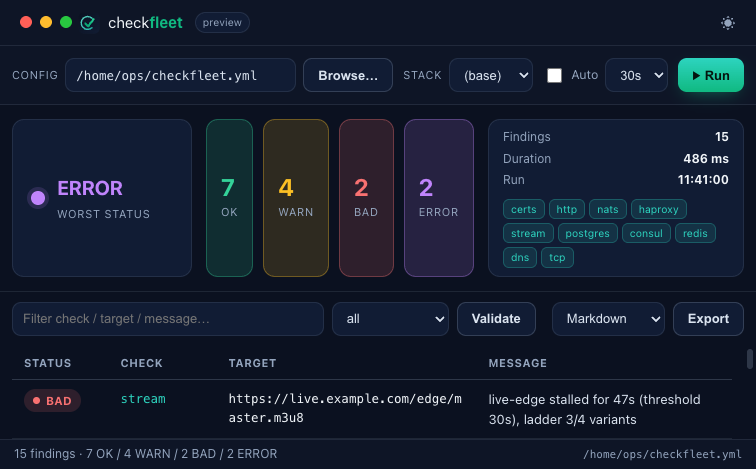
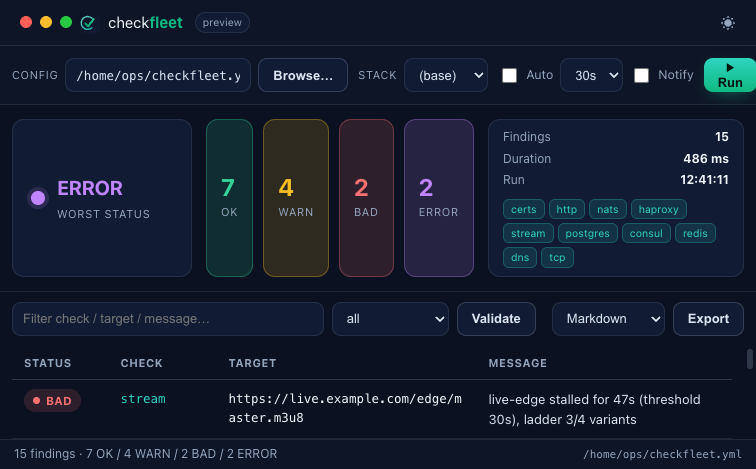
feat(desktop): native notifications + persisted settings (CF-63) (v0.59.0)

Changed region(s): [[0.3042, 0.1194, 0.791, 0.1791], [0.8214, 0.1194, 1.0, 0.209], [0.8823, 0.3582, 0.9735, 0.3881]]

diff --git a/desktop/frontend/dist/main.js b/desktop/frontend/dist/main.js
@@ -24,6 +24,7 @@
     RunChecks: async () => mockReport(),
     Validate: async () => [],
     Explain: async (m) => "Sample explanation for the " + m + " module (preview).",
+    Notify: async () => {},
   };
 
   /* ---------------- state ---------------- */
@@ -118,6 +119,32 @@
     }
     btn.disabled = false;
     render();
+    maybeNotify();
+  }
+
+  // maybeNotify fires a native notification when the run is bad and Notify is on.
+  function maybeNotify() {
+    if (IS_MOCK || !$("notify").checked || !report || report.err) return;
+    if (report.worst === "BAD" || report.worst === "ERROR") {
+      const n = report.bad + report.error;
+      try { Backend.Notify("checkfleet: " + report.worst, n + " problem(s) — " + (report.configPath || "")); } catch (_) {}
+    }
+  }
+
+  /* ---------------- settings persistence ---------------- */
+  function saveSettings() {
+    try {
+      localStorage.setItem("cf-settings", JSON.stringify({
+        config: $("configPath").value,
+        stack: $("stack").value,
+        interval: $("interval").value,
+        auto: $("auto").checked,
+        notify: $("notify").checked,
+      }));
+    } catch (_) {}
+  }
+  function loadSettings() {
+    try { return JSON.parse(localStorage.getItem("cf-settings") || "{}"); } catch (_) { return {}; }
   }
 
   async function refreshStacks() {
@@ -202,11 +229,13 @@
         if (p) { $("configPath").value = p; updateHint(); await refreshStacks(); }
       } catch (_) {}
     });
-    $("configPath").addEventListener("change", () => { updateHint(); refreshStacks(); });
+    $("configPath").addEventListener("change", () => { updateHint(); refreshStacks(); saveSettings(); });
     $("filter").addEventListener("input", render);
     $("minsev").addEventListener("change", render);
-    $("auto").addEventListener("change", (e) => setAutoRefresh(e.target.checked));
-    $("interval").addEventListener("change", () => { if ($("auto").checked) setAutoRefresh(true); });
+    $("stack").addEventListener("change", saveSettings);
+    $("notify").addEventListener("change", saveSettings);
+    $("auto").addEventListener("change", (e) => { setAutoRefresh(e.target.checked); saveSettings(); });
+    $("interval").addEventListener("change", () => { if ($("auto").checked) setAutoRefresh(true); saveSettings(); });
     $("export").addEventListener("click", () => save($("expfmt").value));
     $("theme").addEventListener("click", toggleTheme);
     $("validate").addEventListener("click", runValidate);
@@ -251,9 +280,18 @@
     // straight into a fleet.
     let startup = { path: "", autoRun: false };
     try { startup = (await Backend.StartupConfig()) || startup; } catch (_) {}
-    if (startup.path) $("configPath").value = startup.path;
+
+    // Persisted settings (config/stack/interval/auto/notify) win over the
+    // startup defaults, so the app reopens where you left it.
+    const s = loadSettings();
+    $("configPath").value = s.config || startup.path || "";
+    if (s.interval) $("interval").value = s.interval;
+    if (s.auto) $("auto").checked = true;
+    if (s.notify) $("notify").checked = true;
     updateHint();
     await refreshStacks();
+    if (s.stack) $("stack").value = s.stack;
+    if ($("auto").checked) setAutoRefresh(true);
 
     if (IS_MOCK) {
       // Preview: add fake window controls and auto-run with sample data.

diff --git a/desktop/frontend/dist/index.html b/desktop/frontend/dist/index.html
@@ -42,6 +42,7 @@
           <option value="60">60s</option>
           <option value="300">5m</option>
         </select>
+        <label class="switch"><input type="checkbox" id="notify"><span>Notify</span></label>
       </div>
       <button class="btn btn-primary" id="run"><span class="run-ico">▶</span> Run</button>
     </div>

diff --git a/desktop/app.go b/desktop/app.go
@@ -14,6 +14,7 @@ import (
 	"github.com/Allan-Nava/checkfleet/internal/moduledoc"
 	"github.com/Allan-Nava/checkfleet/internal/output"
 	"github.com/Allan-Nava/checkfleet/internal/registry"
+	"github.com/gen2brain/beeep"
 	wruntime "github.com/wailsapp/wails/v2/pkg/runtime"
 )
 
@@ -180,6 +181,12 @@ func (a *App) Validate(configPath, stack string) []string {
 func (a *App) Explain(module string) string {
 	d, _ := moduledoc.Doc(module)
 	return d
+}
+
+// Notify fires a native OS desktop notification (best-effort). The frontend
+// calls it after a run whose worst status is BAD/ERROR when notifications are on.
+func (a *App) Notify(title, message string) {
+	_ = beeep.Notify(title, message, "")
 }
 
 // OpenConfigDialog shows a native file picker and returns the chosen path.

diff --git a/BACKLOG.md b/BACKLOG.md
@@ -124,5 +124,5 @@ Estende l'app desktop Wails (M5) riusando `internal/*`. Frontend statico + bindi
 
 - [x] **CF-61 — Export in tutti i formati**: nella GUI selettore formato (Markdown/JSON/HTML/JUnit/Prometheus/OTLP) + bottone Export via file-dialog nativo; helper `renderReport` testato (riusa `internal/output`). _(v0.57.0)_
 - [x] **CF-62 — Dettaglio & insight**: drawer al click su un finding (messaggio completo + Copy), chip modulo cliccabili → **Explain**, bottone **Validate** (`engine.Validate`). Docs moduli spostate in `internal/moduledoc` (condivise CLI+GUI). Fix: `.drawer` ignorava `hidden` (era sempre aperto). Binding testate. _(v0.58.0)_
-- [ ] **CF-63 — Notifiche & settings**: notifica desktop nativa quando il worst è BAD/ERROR dopo un run; persistenza di config path, stack, intervallo e auto-refresh tra i riavvii.
+- [x] **CF-63 — Notifiche & settings**: notifica desktop nativa (beeep) quando il worst è BAD/ERROR dopo un run, con toggle **Notify**; persistenza in localStorage di config path, stack, intervallo, auto e notify tra i riavvii. Binding `App.Notify`. _(v0.59.0)_
 - [ ] **CF-64 — Vista storico/diff**: mostra il delta vs il run precedente (new/resolved/worsened/improved) riusando `engine.DiffStatus`.

diff --git a/CHANGELOG.md b/CHANGELOG.md
@@ -1,5 +1,9 @@
 # Changelog
 
+## 0.59.0
+
+- Desktop (CF-63, M16): **notifiche native & settings persistiti**. Nuovo toggle **Notify**: dopo un run con worst BAD/ERROR l'app fa una notifica desktop nativa (via `beeep`, binding `App.Notify`). Config path, stack, intervallo, Auto e Notify sono ora **ricordati tra i riavvii** (localStorage). Nuova dip del modulo desktop: `github.com/gen2brain/beeep` (solo GUI, il modulo CLI resta invariato).
+
 ## 0.58.0
 
 - Desktop (CF-62, M16): **dettaglio & insight**. Click su un finding → drawer con messaggio completo e bottone **Copy**; click su una chip modulo → **Explain** (cosa controlla); bottone **Validate** che mostra i problemi di config (`engine.Validate`) senza eseguire i check. Le descrizioni dei moduli sono ora in `internal/moduledoc`, condivise tra CLI (`explain`) e GUI (con test anti-drift). Fix: `.drawer` con `display:flex` ignorava l'attributo `hidden` (drawer sempre aperto) → aggiunto `.drawer[hidden]{display:none}`. Binding `Explain`/`Validate` testate.

diff --git a/docs/desktop.md b/docs/desktop.md
@@ -22,7 +22,12 @@ Everything is one screen, scanned top-to-bottom.
 - **Stack** — pick a `checkfleet.<stack>.yml` profile discovered next to the
   config (same overlay as the CLI's `--stack`); `(base)` runs the base file.
 - **Auto** + interval — re-run the checks on a timer (10s / 30s / 60s / 5m).
+- **Notify** — pop a native OS notification after a run whose worst status is
+  BAD/ERROR.
 - **Run** — execute every configured module now.
+
+The app remembers your config path, stack, interval, Auto and Notify between
+launches.
 
 **Summary**
 
